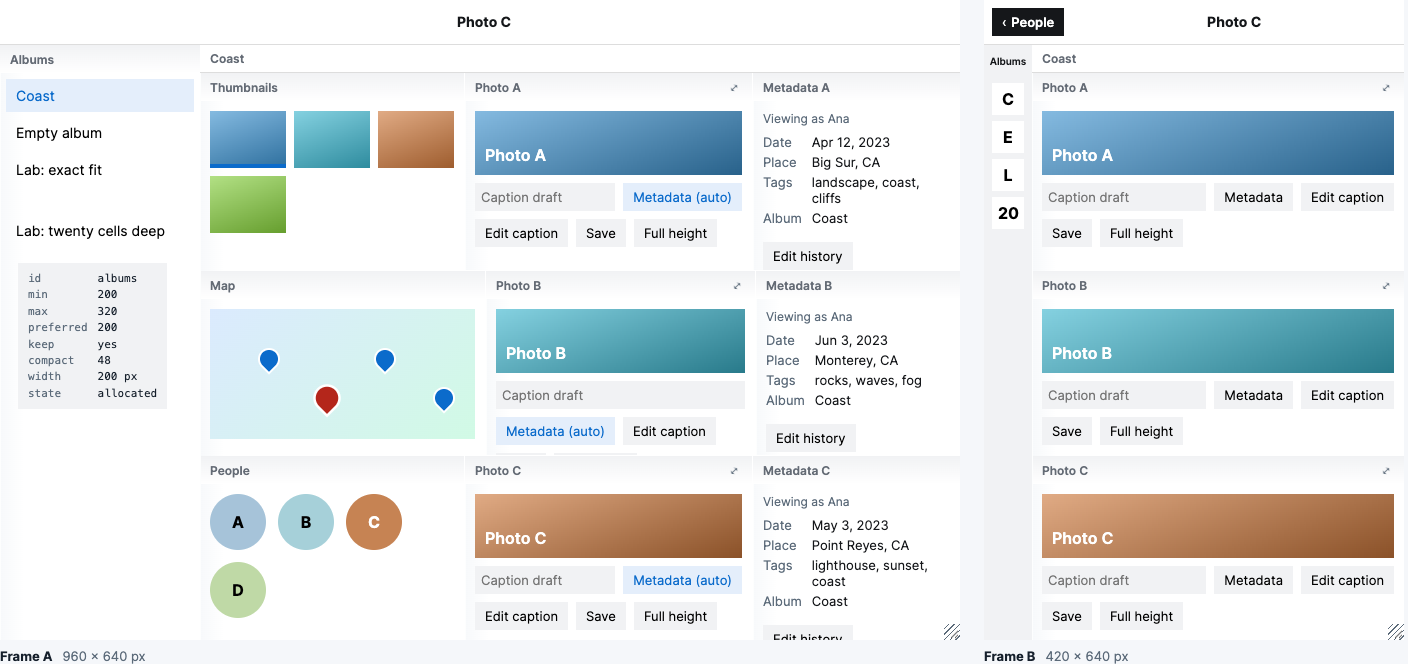
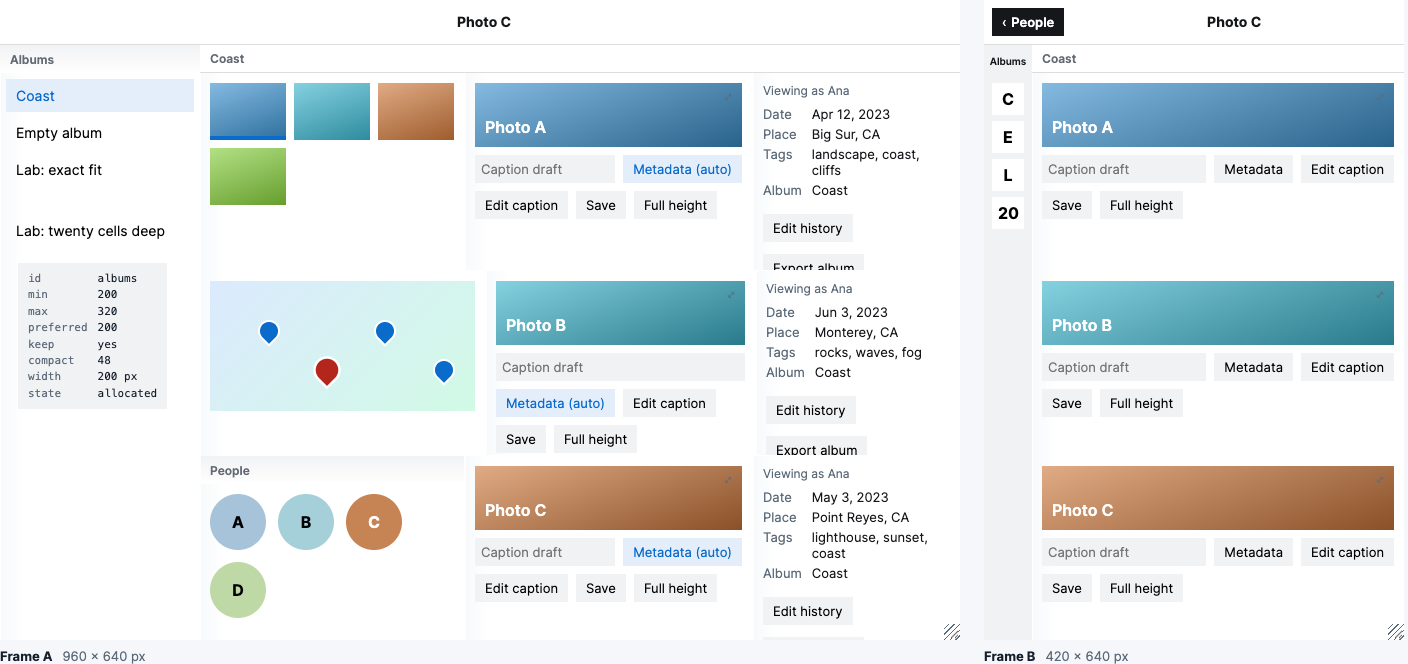
A cell draws a title bar only when it declares one
Every cell drew a title bar, so a demo screen carried a line of chrome
above every rectangle, most of it naming what the content already
showed, and the guide placed controls in headers as if each cell had
one. A cell now has no bar; header: "title" asks for one, for the few
cells a viewer cannot place from their content, and a split may ask
for one bar above its rows. The demo keeps a bar on the albums menu,
the album and the people row only, and moves the photo's zoom toggle
into its picture.

Slice: frontend + docs + spec
Tests: test/layout-declaration.test.js, test/navigation.test.js, test/workspace.test.js, test/workspace-package.test.js
Red-then-green: test/layout-declaration.test.js
Visual: expected bars only on Albums, Coast and People, with thumbnails, map, photos and metadata starting at their content, and saw that -> docs/assets/captures/three-rows.png
Verified: red-then-green

diff --git a/test/workspace.test.js b/test/workspace.test.js
@@ -1020,8 +1020,8 @@ test("content hears when its cell starts to leave, and again when it comes back 
 });
 
 test("content can place its own controls in the cell header, which keeps them visible and cuts the title short", async () => {
-	await openDemo([open("album:coast", "albums")]);
-	const photo = coast.photo("thumbnails", "a");
+	await openDemo([open("album:coast", "albums"), open("coast:history:a", coast.metadata("thumbnails", "a"))]);
+	const photo = coast.history("thumbnails", "a");
 	const result = await page.evaluate(async (photo) => {
 		const workspace = window.supermaxDemo.frames[0].workspace;
 		const original = workspace.content;
@@ -1103,7 +1103,7 @@ test("zooming a cell hides the cells before it, keeps what follows, and Show zoo
 		const workspace = window.supermaxDemo.frames[0].workspace;
 		window.zoomEvents = [];
 		workspace.addEventListener("zoom", (event) => window.zoomEvents.push(event.detail.occurrence?.split("/").pop() ?? null));
-		document.querySelector(`.frame[data-frame="a"] [data-occurrence="${photo}"] .supermax-cell-title .zoom-toggle`).click();
+		document.querySelector(`.frame[data-frame="a"] [data-occurrence="${photo}"] .zoom-toggle`).click();
 		return window.zoomEvents;
 	}, photo);
 	await settle();
@@ -1933,7 +1933,7 @@ test("a split draws its own title above its rows, which stays while the rows cha
 	assert.equal(measured.barWidth, measured.cellWidth, "across the whole split");
 	assert.equal(measured.firstRowTop, 28, "the rows start below it");
 	assert.equal(measured.rowsHeight, measured.cellHeight - 28, "and share the height that is left");
-	assert.ok(measured.rowBars.every(Boolean), "the row cells keep their own bars unless they declare header: \"none\"");
+	assert.deepEqual(measured.rowBars, [false, false, true], "the row cells draw no bar unless they declare header: \"title\", as People does, since four lettered circles name nothing by themselves");
 	await page.click(inFrame("a", `[data-occurrence="${coast.row("thumbnails")}"] .thumb[data-destination="coast:photo:d"]`));
 	await settle();
 	assert.equal(await page.locator(album + " > .supermax-cell-title .supermax-cell-title-text").textContent(), "Coast", "the bar stays while a row opens another cell");
@@ -1958,7 +1958,7 @@ test("a full-height cell opened from a row breaks out beside its split, and Back
 	assert.equal(placed.rightOfSplit, true, "to the right of the album's split");
 	assert.equal(placed.height, placed.splitHeight, "as tall as the split beside it");
 	const headless = await page.locator(inFrame("a", `[data-occurrence="${fullB}"]`)).evaluate((cell) => ({ bars: cell.querySelectorAll(":scope > .supermax-cell-title").length, label: cell.getAttribute("aria-label"), headless: cell.classList.contains("is-headless"), bodyTop: Math.round(cell.querySelector(".supermax-cell-body").getBoundingClientRect().top - cell.getBoundingClientRect().top) }));
-	assert.deepEqual(headless, { bars: 0, label: "Photo B at full height", headless: true, bodyTop: 0 }, "a cell declared header: \"none\" draws no title bar, its body starts at the top, and it keeps its title as its accessible name");
+	assert.deepEqual(headless, { bars: 0, label: "Photo B at full height", headless: true, bodyTop: 0 }, "a cell without header: \"title\" draws no title bar, its body starts at the top, and it keeps its title as its accessible name");
 	assert.equal(await page.locator(inFrame("a", `[data-occurrence="${photoB}"] .full-link`)).getAttribute("aria-current"), null);
 	assert.equal(await page.locator(inFrame("a", `[data-row="${coast.row("thumbnails")}"] [data-occurrence="${fullB}"]`)).count(), 0, "the row's own chain does not hold it");
 	await closeNewest("a");

diff --git a/test/layout-declaration.test.js b/test/layout-declaration.test.js
@@ -42,13 +42,13 @@ for (const context of ["ana", "ben"]) {
 	const plain = layoutOf({ title: "Plain", min: 200, max: 300 });
 	assert.equal(Object.hasOwn(plain, "zoomable"), false, "a declaration that cannot zoom carries no zoomable field, so existing hashes stay the same");
 	assert.equal(layoutOf({ title: "Zoomable", min: 200, max: 300, zoomable: true }).zoomable, true, "one that can zoom says so");
-	assert.equal(Object.hasOwn(layoutOf({ title: "Titled", min: 200, max: 300 }), "header"), false, "a cell with its title bar carries no header field");
-	assert.equal(layoutOf({ title: "Strip", min: 200, max: 300, header: "none" }).header, "none", "a cell whose content names itself says it has no title bar");
-	const headless = (declaration) => validateDeclarationSet({ schemaVersion: 2, context: "ana", root: "x", destinations: { x: { title: "X", min: 200, max: 300, preferred: null, defaultChild: null, ...declaration } } }).map((problem) => problem.reason);
-	assert.deepEqual(headless({ header: "none" }), [], "header: \"none\" is a valid declaration");
-	assert.deepEqual(headless({ header: "small" }), ["invalid-header"], "any other value is refused");
-	assert.deepEqual(validateDeclarationSet({ schemaVersion: 2, context: "ana", root: "s", destinations: { s: { title: "S", rows: [{ destination: "x", minHeight: 100, maxHeight: "*", preferredHeight: 200 }], header: "none" }, x: { title: "X", min: 200, max: 300, preferred: null, defaultChild: null } } }).map((problem) => problem.reason), [], "a split draws its title above its rows and may leave it out the same way");
-	assert.equal(layoutOf({ title: "S", rows: [{ destination: "x", minHeight: 100, maxHeight: "*", preferredHeight: 200 }], header: "none" }).header, "none");
+	assert.equal(Object.hasOwn(layoutOf({ title: "Plain", min: 200, max: 300 }), "header"), false, "a cell without a title bar, the common case, carries no header field");
+	assert.equal(layoutOf({ title: "Named", min: 200, max: 300, header: "title" }).header, "title", "a cell that needs its title bar says so");
+	const headed = (declaration) => validateDeclarationSet({ schemaVersion: 2, context: "ana", root: "x", destinations: { x: { title: "X", min: 200, max: 300, preferred: null, defaultChild: null, ...declaration } } }).map((problem) => problem.reason);
+	assert.deepEqual(headed({ header: "title" }), [], "header: \"title\" is a valid declaration");
+	assert.deepEqual(headed({ header: "none" }), ["invalid-header"], "there is no other value: no bar is the default");
+	assert.deepEqual(validateDeclarationSet({ schemaVersion: 2, context: "ana", root: "s", destinations: { s: { title: "S", rows: [{ destination: "x", minHeight: 100, maxHeight: "*", preferredHeight: 200 }], header: "title" }, x: { title: "X", min: 200, max: 300, preferred: null, defaultChild: null } } }).map((problem) => problem.reason), [], "a split may draw its title above its rows the same way");
+	assert.equal(layoutOf({ title: "S", rows: [{ destination: "x", minHeight: 100, maxHeight: "*", preferredHeight: 200 }], header: "title" }).header, "title");
 }
 
 console.log("Layout declaration scenarios passed");

diff --git a/test/fixtures/gallery.js b/test/fixtures/gallery.js
@@ -7,6 +7,7 @@ export const destinations = {
 	canvas: { title: "Canvas", min: 100, max: "*", preferred: 100 },
 	gallery: {
 		title: "Gallery",
+		header: "title",
 		rows: [
 			{ destination: "list", minHeight: 100, maxHeight: "*", preferredHeight: 200 },
 			{ destination: "grid", minHeight: 100, maxHeight: 200 },
@@ -23,14 +24,14 @@ export const destinations = {
 	"detail:b": { title: "Detail B", min: 150, max: 200 },
 	"detail:c": { title: "Detail C", min: 150, max: 200 },
 	"notes:a": { title: "Notes A", min: 100, max: 200 },
-	fit: { title: "Fit", rows: [{ destination: "list", minHeight: 232, maxHeight: "*", preferredHeight: 300 }, { destination: "grid", minHeight: 100, maxHeight: 200 }] },
+	fit: { title: "Fit", header: "title", rows: [{ destination: "list", minHeight: 232, maxHeight: "*", preferredHeight: 300 }, { destination: "grid", minHeight: 100, maxHeight: 200 }] },
 	upside: { title: "Upside", min: 300, max: 200 },
 	"item:nested": { title: "Nested item", min: 100, max: 200, defaultChild: "inner" },
 	inner: { title: "Inner", rows: [{ destination: "list", minHeight: 100, maxHeight: "*", preferredHeight: 300 }, { destination: "grid", minHeight: 100, maxHeight: 200 }] },
 };
 
 export const invalidSplits = {
-	over: { title: "Over", rows: [{ destination: "list", minHeight: 233, maxHeight: "*", preferredHeight: 300 }, { destination: "grid", minHeight: 100, maxHeight: 200 }] },
+	over: { title: "Over", header: "title", rows: [{ destination: "list", minHeight: 233, maxHeight: "*", preferredHeight: 300 }, { destination: "grid", minHeight: 100, maxHeight: 200 }] },
 	empty: { title: "Empty", rows: [] },
 	twins: { title: "Twins", rows: [{ destination: "list", minHeight: 100, maxHeight: "*", preferredHeight: 200 }, { destination: "list", minHeight: 100, maxHeight: 200 }] },
 	crowd: { title: "Crowd", rows: ["list", "grid", "tags", "item:a", "item:b"].map((destination) => ({ destination, minHeight: 50, maxHeight: 100 })) },

diff --git a/test/navigation.test.js b/test/navigation.test.js
@@ -631,6 +631,7 @@ const mail = ({ defaults = false, width = 1600 } = {}) => {
 			inbox: { title: "Inbox", min: 200, max: 300 },
 			conversation: {
 				title: "Conversation",
+				header: "title",
 				rows: [
 					{ destination: "messages", minHeight: 120, maxHeight: "*", preferredHeight: 300 },
 					{ destination: "attachments", minHeight: 100, maxHeight: 160 },
@@ -812,7 +813,7 @@ scenario("sync names a path into a row: the next id after a split is one of its 
 			conversation: { title: "Subject", rows: [{ destination: "metadata", minHeight: 240, maxHeight: E, preferredHeight: 560 }, { destination: "attachments", minHeight: 96, maxHeight: 120 }] },
 			metadata: { title: "Subject", min: 320, max: 640, defaultChild: "messages" },
 			messages: { title: "Subject", min: 320, max: E, preferred: 960, zoomable: true },
-			attachments: { title: "Attachments", min: 320, max: E, preferred: 960, header: "none" },
+			attachments: { title: "Attachments", min: 320, max: E, preferred: 960 },
 			attachment: { title: "Attachment", min: 320, max: E, preferred: 960, height: "full" },
 		},
 		root: "modes",
@@ -864,7 +865,7 @@ scenario("room gives way in reading order through a split: the cells before it f
 		conversation: { title: "Subject", rows: [{ destination: "metadata", minHeight: 240, maxHeight: E, preferredHeight: 560 }, { destination: "attachments", minHeight: 96, maxHeight: 120 }] },
 		metadata: { title: "Summary", min: 320, max: 640, defaultChild: "messages" },
 		messages: { title: "Messages", min: 320, max: E, preferred: 960 },
-		attachments: { title: "Attachments", min: 320, max: E, preferred: 960, header: "none" },
+		attachments: { title: "Attachments", min: 320, max: E, preferred: 960 },
 		attachment: { title: "Attachment", min: 320, max: E, preferred: 960, height: "full" },
 	};
 	const at = (width) => {

diff --git a/docs/assets/album.js b/docs/assets/album.js
@@ -3,15 +3,15 @@ import { LAYOUT_SCHEMA, layoutOf } from "./supermax/layout-declaration.js";
 export const minViewportHeight = 360;
 
 const widths = {
-	albums: { min: 200, max: 320, preferred: 200, keep: true, compact: { min: 48 } },
+	albums: { min: 200, max: 320, preferred: 200, keep: true, compact: { min: 48 }, header: "title" },
 	selector: { min: 200, max: "*", preferred: 360 },
 	map: { min: 220, max: "*", preferred: 480 },
 	photo: { min: 240, max: "*", preferred: 360, zoomable: true },
 	metadata: { min: 200, max: 320, preferred: 220 },
-	history: { min: 200, max: 320 },
-	edit: { min: 200, max: 320 },
-	depth: { min: 160, max: 240 },
-	full: { min: 320, max: "*", preferred: 900, height: "full", header: "none" },
+	history: { min: 200, max: 320, header: "title" },
+	edit: { min: 200, max: 320, header: "title" },
+	depth: { min: 160, max: 240, header: "title" },
+	full: { min: 320, max: "*", preferred: 900, height: "full" },
 };
 
 export const depthCount = 20;
@@ -98,6 +98,7 @@ export function destinations(context = "ana") {
 		const key = ids(album);
 		result[key.album] = {
 			title: album.title,
+			header: "title",
 			rows: album.rows.map(({ key: rowKey, title, ...bounds }) => ({ destination: key.row(rowKey), ...bounds })),
 			data: { kind: "album", album },
 		};
@@ -105,6 +106,7 @@ export function destinations(context = "ana") {
 			result[key.row(row.key)] = {
 				title: row.title,
 				...(row.key === "map" ? widths.map : widths.selector),
+				...(row.key === "people" ? { header: "title" } : {}),
 				defaultChild: album.photos.length ? key.photo(album.photos[0]) : null,
 				data: { kind: "selector", album, row },
 			};

diff --git a/docs/assets/supermax/layout-declaration.js b/docs/assets/supermax/layout-declaration.js
@@ -27,7 +27,7 @@ export function layoutOf(definition) {
 			title: definition.title,
 			keep: !!definition.keep,
 			rows: definition.rows.map((row) => ({ destination: row.destination, minHeight: row.minHeight, maxHeight: row.maxHeight, preferredHeight: row.preferredHeight ?? null, keep: !!row.keep })),
-			...(definition.header === "none" ? { header: "none" } : {}),
+			...(definition.header === "title" ? { header: "title" } : {}),
 		};
 	}
 	return {
@@ -41,7 +41,7 @@ export function layoutOf(definition) {
 		defaultChild: definition.defaultChild ?? null,
 		...(definition.zoomable ? { zoomable: true } : {}),
 		...(definition.height === "full" ? { height: "full" } : {}),
-		...(definition.header === "none" ? { header: "none" } : {}),
+		...(definition.header === "title" ? { header: "title" } : {}),
 	};
 }
 
@@ -60,7 +60,7 @@ function problemsOf(id, declaration) {
 	const problems = [];
 	if (id.includes("/")) problems.push("invalid-id");
 	if (Object.keys(declaration).some((key) => !FIELDS.has(key))) problems.push("unknown-field");
-	if (declaration.header != null && declaration.header !== "none") problems.push("invalid-header");
+	if (declaration.header != null && declaration.header !== "title") problems.push("invalid-header");
 	if (typeof declaration.title !== "string" || declaration.title.trim().length === 0) problems.push("invalid-title");
 	if (declaration.rows != null) {
 		if (REQUIRED_SPLIT.some((key) => !Object.hasOwn(declaration, key))) problems.push("missing-field");

diff --git a/src/layout-declaration.js b/src/layout-declaration.js
@@ -24,7 +24,7 @@ export function layoutOf(definition) {
 			title: definition.title,
 			keep: !!definition.keep,
 			rows: definition.rows.map((row) => ({ destination: row.destination, minHeight: row.minHeight, maxHeight: row.maxHeight, preferredHeight: row.preferredHeight ?? null, keep: !!row.keep })),
-			...(definition.header === "none" ? { header: "none" } : {}),
+			...(definition.header === "title" ? { header: "title" } : {}),
 		};
 	}
 	return {
@@ -38,7 +38,7 @@ export function layoutOf(definition) {
 		defaultChild: definition.defaultChild ?? null,
 		...(definition.zoomable ? { zoomable: true } : {}),
 		...(definition.height === "full" ? { height: "full" } : {}),
-		...(definition.header === "none" ? { header: "none" } : {}),
+		...(definition.header === "title" ? { header: "title" } : {}),
 	};
 }
 
@@ -57,7 +57,7 @@ function problemsOf(id, declaration) {
 	const problems = [];
 	if (id.includes("/")) problems.push("invalid-id");
 	if (Object.keys(declaration).some((key) => !FIELDS.has(key))) problems.push("unknown-field");
-	if (declaration.header != null && declaration.header !== "none") problems.push("invalid-header");
+	if (declaration.header != null && declaration.header !== "title") problems.push("invalid-header");
 	if (typeof declaration.title !== "string" || declaration.title.trim().length === 0) problems.push("invalid-title");
 	if (declaration.rows != null) {
 		if (REQUIRED_SPLIT.some((key) => !Object.hasOwn(declaration, key))) problems.push("missing-field");

diff --git a/docs/assets/supermax/navigation.js b/docs/assets/supermax/navigation.js
@@ -30,7 +30,7 @@ export function validateDestinations(destinations, { minViewportHeight, chrome =
 	for (const id of Object.keys(destinations)) {
 		if (destinations[id].height != null && (!isFull(destinations[id]) || isSplit(destinations[id]))) problems.push({ destination: id, reason: "invalid-height" });
 		if (isSplit(destinations[id]) && ["min", "max", "preferred"].some((key) => destinations[id][key] != null)) problems.push({ destination: id, reason: "split-with-width" });
-		if (destinations[id].header != null && destinations[id].header !== "none") problems.push({ destination: id, reason: "invalid-header" });
+		if (destinations[id].header != null && destinations[id].header !== "title") problems.push({ destination: id, reason: "invalid-header" });
 	}
 	const elastic = Object.keys(destinations).filter((id) => destinations[id].max === ELASTIC);
 	for (const id of elastic) {

diff --git a/src/navigation.js b/src/navigation.js
@@ -27,7 +27,7 @@ export function validateDestinations(destinations, { minViewportHeight, chrome =
 	for (const id of Object.keys(destinations)) {
 		if (destinations[id].height != null && (!isFull(destinations[id]) || isSplit(destinations[id]))) problems.push({ destination: id, reason: "invalid-height" });
 		if (isSplit(destinations[id]) && ["min", "max", "preferred"].some((key) => destinations[id][key] != null)) problems.push({ destination: id, reason: "split-with-width" });
-		if (destinations[id].header != null && destinations[id].header !== "none") problems.push({ destination: id, reason: "invalid-header" });
+		if (destinations[id].header != null && destinations[id].header !== "title") problems.push({ destination: id, reason: "invalid-header" });
 	}
 	const elastic = Object.keys(destinations).filter((id) => destinations[id].max === ELASTIC);
 	for (const id of elastic) {

diff --git a/docs/assets/demo.js b/docs/assets/demo.js
@@ -304,13 +304,13 @@ function renderPhoto(occurrence, data, workspace) {
 	full.addEventListener("click", () => workspace.navigate(key.full(photo), { from: occurrence.id, origin: full }));
 	const actions = element("div", "photo-actions");
 	actions.append(caption, link, editCaption, save, full);
-	host.append(picture, actions);
 	const zoom = element("button", "zoom-toggle", "⤢");
 	zoom.type = "button";
 	zoom.addEventListener("click", () => workspace.zoom(workspace.navigator.zoomed === occurrence.id ? null : occurrence.id));
+	picture.append(zoom);
+	host.append(picture, actions);
 	return {
 		element: host,
-		header: zoom,
 		update(current) {
 			const zoomed = workspace.navigator.zoomed === current?.id;
 			zoom.setAttribute("aria-pressed", String(zoomed));

diff --git a/docs/assets/supermax/layout.js b/docs/assets/supermax/layout.js
@@ -124,9 +124,9 @@ export function validateSplit(model, definitionId, parentOccurrence) {
 	return { ok: reason === null, reason, rows: results, chrome, supported: model.minViewportHeight };
 }
 
-// allow-comment: a split draws its title above its rows unless it declares header: "none"; that bar is chrome the rows do not get.
+// allow-comment: a split that declares header: "title" draws it above its rows; that bar is chrome the rows do not get.
 export function headerOf(model, definition) {
-	return definition.header === "none" ? 0 : model.chrome.header;
+	return definition.header === "title" ? model.chrome.header : 0;
 }
 
 export function chainRootOf(model, occurrence) {

diff --git a/src/layout.js b/src/layout.js
@@ -121,9 +121,9 @@ export function validateSplit(model, definitionId, parentOccurrence) {
 	return { ok: reason === null, reason, rows: results, chrome, supported: model.minViewportHeight };
 }
 
-// allow-comment: a split draws its title above its rows unless it declares header: "none"; that bar is chrome the rows do not get.
+// allow-comment: a split that declares header: "title" draws it above its rows; that bar is chrome the rows do not get.
 export function headerOf(model, definition) {
-	return definition.header === "none" ? 0 : model.chrome.header;
+	return definition.header === "title" ? model.chrome.header : 0;
 }
 
 export function chainRootOf(model, occurrence) {
